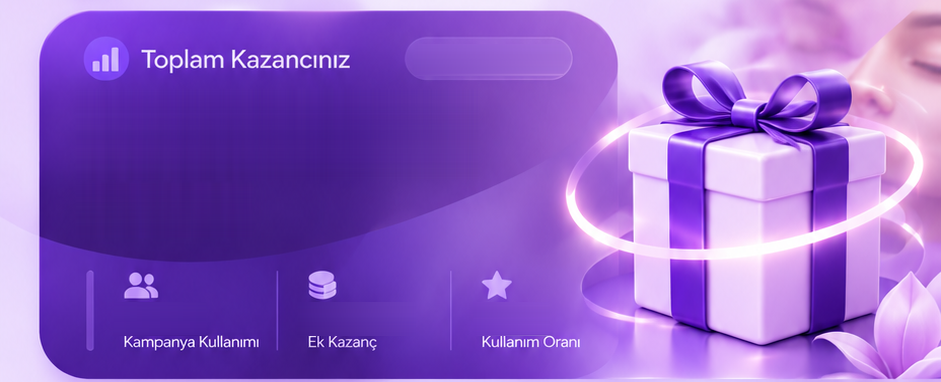
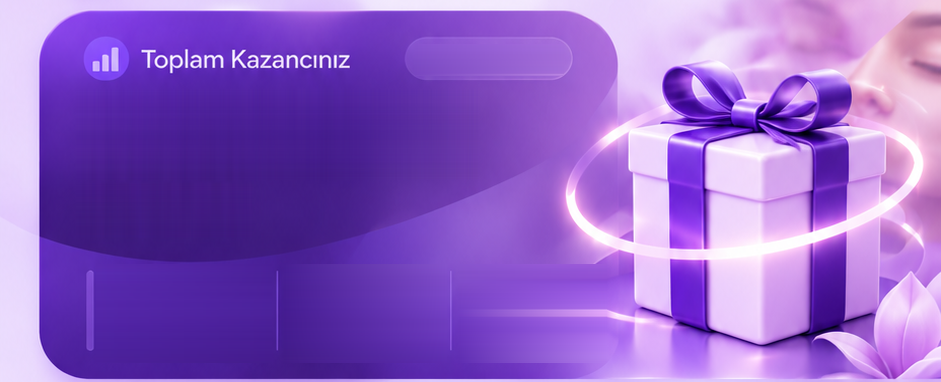
Ikram Hizmet: ust karttaki kullanim/ek kazanc/oran sutunlari buyuk ve okunur (gorseldeki kucuk etiketler silindi); bilgi dugmesi kucuk ince ikon (iki sayfada)

diff --git a/lib/yonetici/diger/menu/ikram/ikram_hizmet.dart b/lib/yonetici/diger/menu/ikram/ikram_hizmet.dart
@@ -208,7 +208,26 @@ class _IkramHizmetPageState extends State<IkramHizmetPage> {
                 textAlign: TextAlign.center,
                 style: TextStyle(fontSize: 21, fontWeight: FontWeight.w800, color: _koyu, letterSpacing: -0.3)),
           ),
-          _daireDugme(const Text('i', style: TextStyle(fontSize: 22, fontWeight: FontWeight.w800, color: _koyu)), _bilgiGoster),
+          // Bilgi: küçük, ince çizgili ikon (başlık ortada kalsın diye geri düğmesi genişliğinde alan)
+          SizedBox(
+            width: 46,
+            child: Center(
+              child: GestureDetector(
+                onTap: _bilgiGoster,
+                child: Container(
+                  width: 36,
+                  height: 36,
+                  decoration: BoxDecoration(
+                    shape: BoxShape.circle,
+                    color: Colors.white.withValues(alpha: 0.7),
+                    border: Border.all(color: const Color(0xFFE4D7F7)),
+                    boxShadow: [BoxShadow(color: _mor.withValues(alpha: 0.10), blurRadius: 10, offset: const Offset(0, 3))],
+                  ),
+                  child: const Icon(Icons.info_outline_rounded, color: _morKoyu, size: 19),
+                ),
+              ),
+            ),
+          ),
         ]),
       );
 
@@ -226,16 +245,29 @@ class _IkramHizmetPageState extends State<IkramHizmetPage> {
       final h = w * 382 / 941;
       double x(num px) => w * px / 941;
       double y(num px) => h * (px - 118) / 382; // tasarım y koordinatı (kesim 118'den başlar)
-      Widget rakam(num sol, num sag, String deger) => Positioned(
+      // Alt üç sütun: ikon + rakam + etiket (görseldeki küçük yazılar silindi, burada büyük yazılır)
+      Widget rakam(num sol, num sag, IconData ikon, String deger, String etiket) => Positioned(
             left: x(sol),
-            top: y(421),
+            top: y(370),
             width: x(sag - sol),
-            height: y(452) - y(421),
-            child: FittedBox(
-              fit: BoxFit.scaleDown,
-              alignment: Alignment.centerLeft,
-              child: Text(deger, style: TextStyle(color: Colors.white, fontSize: w * 0.03, fontWeight: FontWeight.w800)),
-            ),
+            height: y(494) - y(370),
+            child: Column(crossAxisAlignment: CrossAxisAlignment.start, mainAxisAlignment: MainAxisAlignment.center, children: [
+              Row(children: [
+                Icon(ikon, color: Colors.white.withValues(alpha: 0.9), size: w * 0.042),
+                SizedBox(width: x(10)),
+                Flexible(
+                  child: FittedBox(
+                    fit: BoxFit.scaleDown,
+                    alignment: Alignment.centerLeft,
+                    child: Text(deger, style: TextStyle(color: Colors.white, fontSize: w * 0.044, fontWeight: FontWeight.w800, height: 1.1)),
+                  ),
+                ),
+              ]),
+              SizedBox(height: x(4)),
+              Text(etiket,
+                  maxLines: 2,
+                  style: TextStyle(color: Colors.white, fontSize: w * 0.029, fontWeight: FontWeight.w600, height: 1.15)),
+            ]),
           );
       return SizedBox(
         width: w,
@@ -308,10 +340,10 @@ class _IkramHizmetPageState extends State<IkramHizmetPage> {
                     ]),
                   ),
           ),
-          // Alt üç rakam (etiket ve ikonlar görselde)
-          rakam(122, 272, '${(_ozet['kullanim'] as num?)?.toInt() ?? 0}'),
-          rakam(306, 448, '${ikramTl(_ozet['ek_kazanc'] as num?)} TL'),
-          rakam(480, 610, oran == null ? '—' : '%$oran'),
+          // Alt üç sütun
+          rakam(104, 270, Icons.people_alt_rounded, '${(_ozet['kullanim'] as num?)?.toInt() ?? 0}', 'Kampanya\nKullanımı'),
+          rakam(292, 446, Icons.savings_rounded, '${ikramTl(_ozet['ek_kazanc'] as num?)} TL', 'Ek\nKazanç'),
+          rakam(466, 606, Icons.star_rounded, oran == null ? '—' : '%$oran', 'Kullanım\nOranı'),
         ]),
       );
     });

diff --git a/lib/yonetici/diger/menu/ikram/kampanya_ayarlari.dart b/lib/yonetici/diger/menu/ikram/kampanya_ayarlari.dart
@@ -180,7 +180,26 @@ class _KampanyaAyarlariSayfasiState extends State<KampanyaAyarlariSayfasi> {
                 textAlign: TextAlign.center,
                 style: TextStyle(fontSize: 20, fontWeight: FontWeight.w800, color: _koyu, letterSpacing: -0.3)),
           ),
-          _daireDugme(const Text('i', style: TextStyle(fontSize: 22, fontWeight: FontWeight.w800, color: _koyu)), _bilgiGoster),
+          // Bilgi: küçük, ince çizgili ikon (başlık ortada kalsın diye geri düğmesi genişliğinde alan)
+          SizedBox(
+            width: 46,
+            child: Center(
+              child: GestureDetector(
+                onTap: _bilgiGoster,
+                child: Container(
+                  width: 36,
+                  height: 36,
+                  decoration: BoxDecoration(
+                    shape: BoxShape.circle,
+                    color: Colors.white.withValues(alpha: 0.7),
+                    border: Border.all(color: const Color(0xFFE4D7F7)),
+                    boxShadow: [BoxShadow(color: _mor.withValues(alpha: 0.10), blurRadius: 10, offset: const Offset(0, 3))],
+                  ),
+                  child: const Icon(Icons.info_outline_rounded, color: _morKoyu, size: 19),
+                ),
+              ),
+            ),
+          ),
         ]),
       );
 
